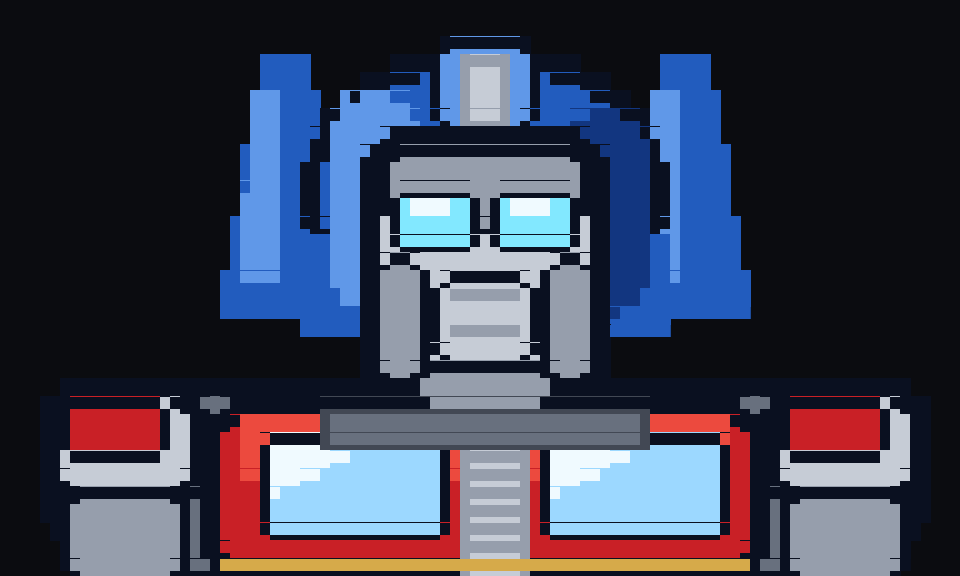
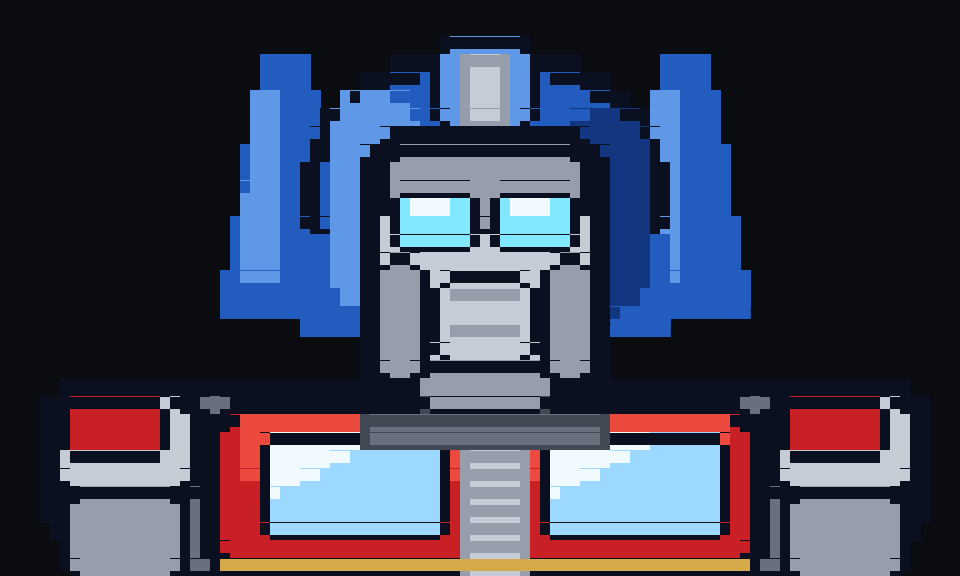
assets: tighten the collar so the chest bar stops ending in stray nubs

Changed region(s): [[0.3125, 0.6875, 0.6875, 0.7812]]

diff --git a/assets/optimus/generate.py b/assets/optimus/generate.py
@@ -98,8 +98,9 @@ rrect([43, 30, 53, 40], fill=SILVER, r=3, w=1)                   # mouthplate
 d.line([(45, 32), (51, 32)], fill=SILVER_D)
 d.line([(45, 36), (51, 36)], fill=SILVER_D)
 rrect([41, 40, 55, 45], fill=SILVER_D, r=2, w=1)                 # chin
-rect([32, 45, 64, 49], GREY, GREY_D, 1)                          # wide collar: breaks
-#   the head off from the chest so the faceplate and grille stop reading as one stalk
+rect([36, 46, 60, 49], GREY, GREY_D, 1)                          # collar: inside the
+#   chest edge, so it reads as the head's base rather than a bar running out to the
+#   shoulders and ending in stray nubs
 
 # ================================================================== output
 px = img.load()
